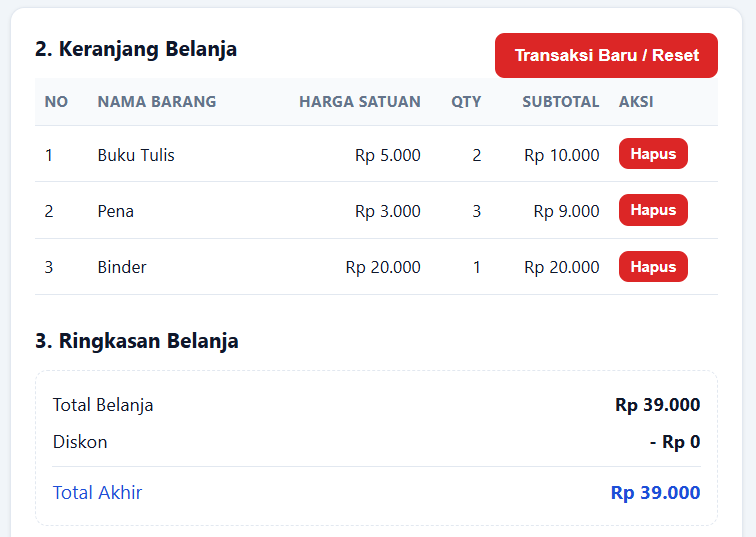
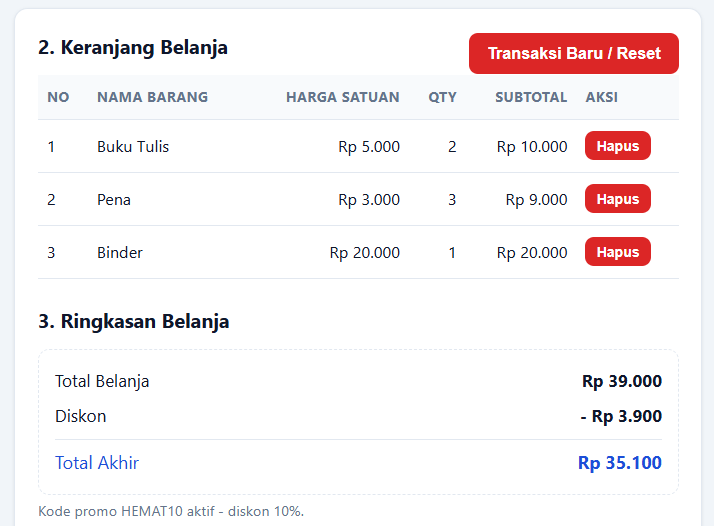
Finalisasi Tugas Pertemuan 1: Mini POS + Latihan Modul

diff --git a/script.js b/script.js
@@ -1,5 +1,5 @@
 /* ============================================================
-   Mini POS — script.js
+   Mini POS - script.js
    Tugas Pertemuan 1: Aplikasi Kasir & Keranjang Belanja
    ============================================================ */
 
@@ -123,16 +123,16 @@ function hitungTotalBelanja() {
   let keterangan = "";
   if (promoAktif) {
     diskon = total * PERSEN_DISKON;
-    keterangan = `Kode promo ${KODE_PROMO_VALID} aktif — diskon 10%.`;
+    keterangan = `Kode promo ${KODE_PROMO_VALID} aktif - diskon 10%.`;
   } else if (total >= MINIMAL_DISKON) {
     diskon = total * PERSEN_DISKON;
-    keterangan = `Total belanja ≥ ${formatRupiah(MINIMAL_DISKON)} — diskon otomatis 10%.`;
+    keterangan = `Total belanja ≥ ${formatRupiah(MINIMAL_DISKON)} - diskon otomatis 10%.`;
   }
 
   return { total, diskon, totalAkhir: total - diskon, keterangan };
 }
 
-// Kembalian = Uang Bayar − Total Akhir
+// Kembalian = Uang Bayar - Total Akhir
 function hitungKembalian() {
   const { totalAkhir } = hitungTotalBelanja();
   const uangBayar = parseFloat(inputUangBayar.value);
